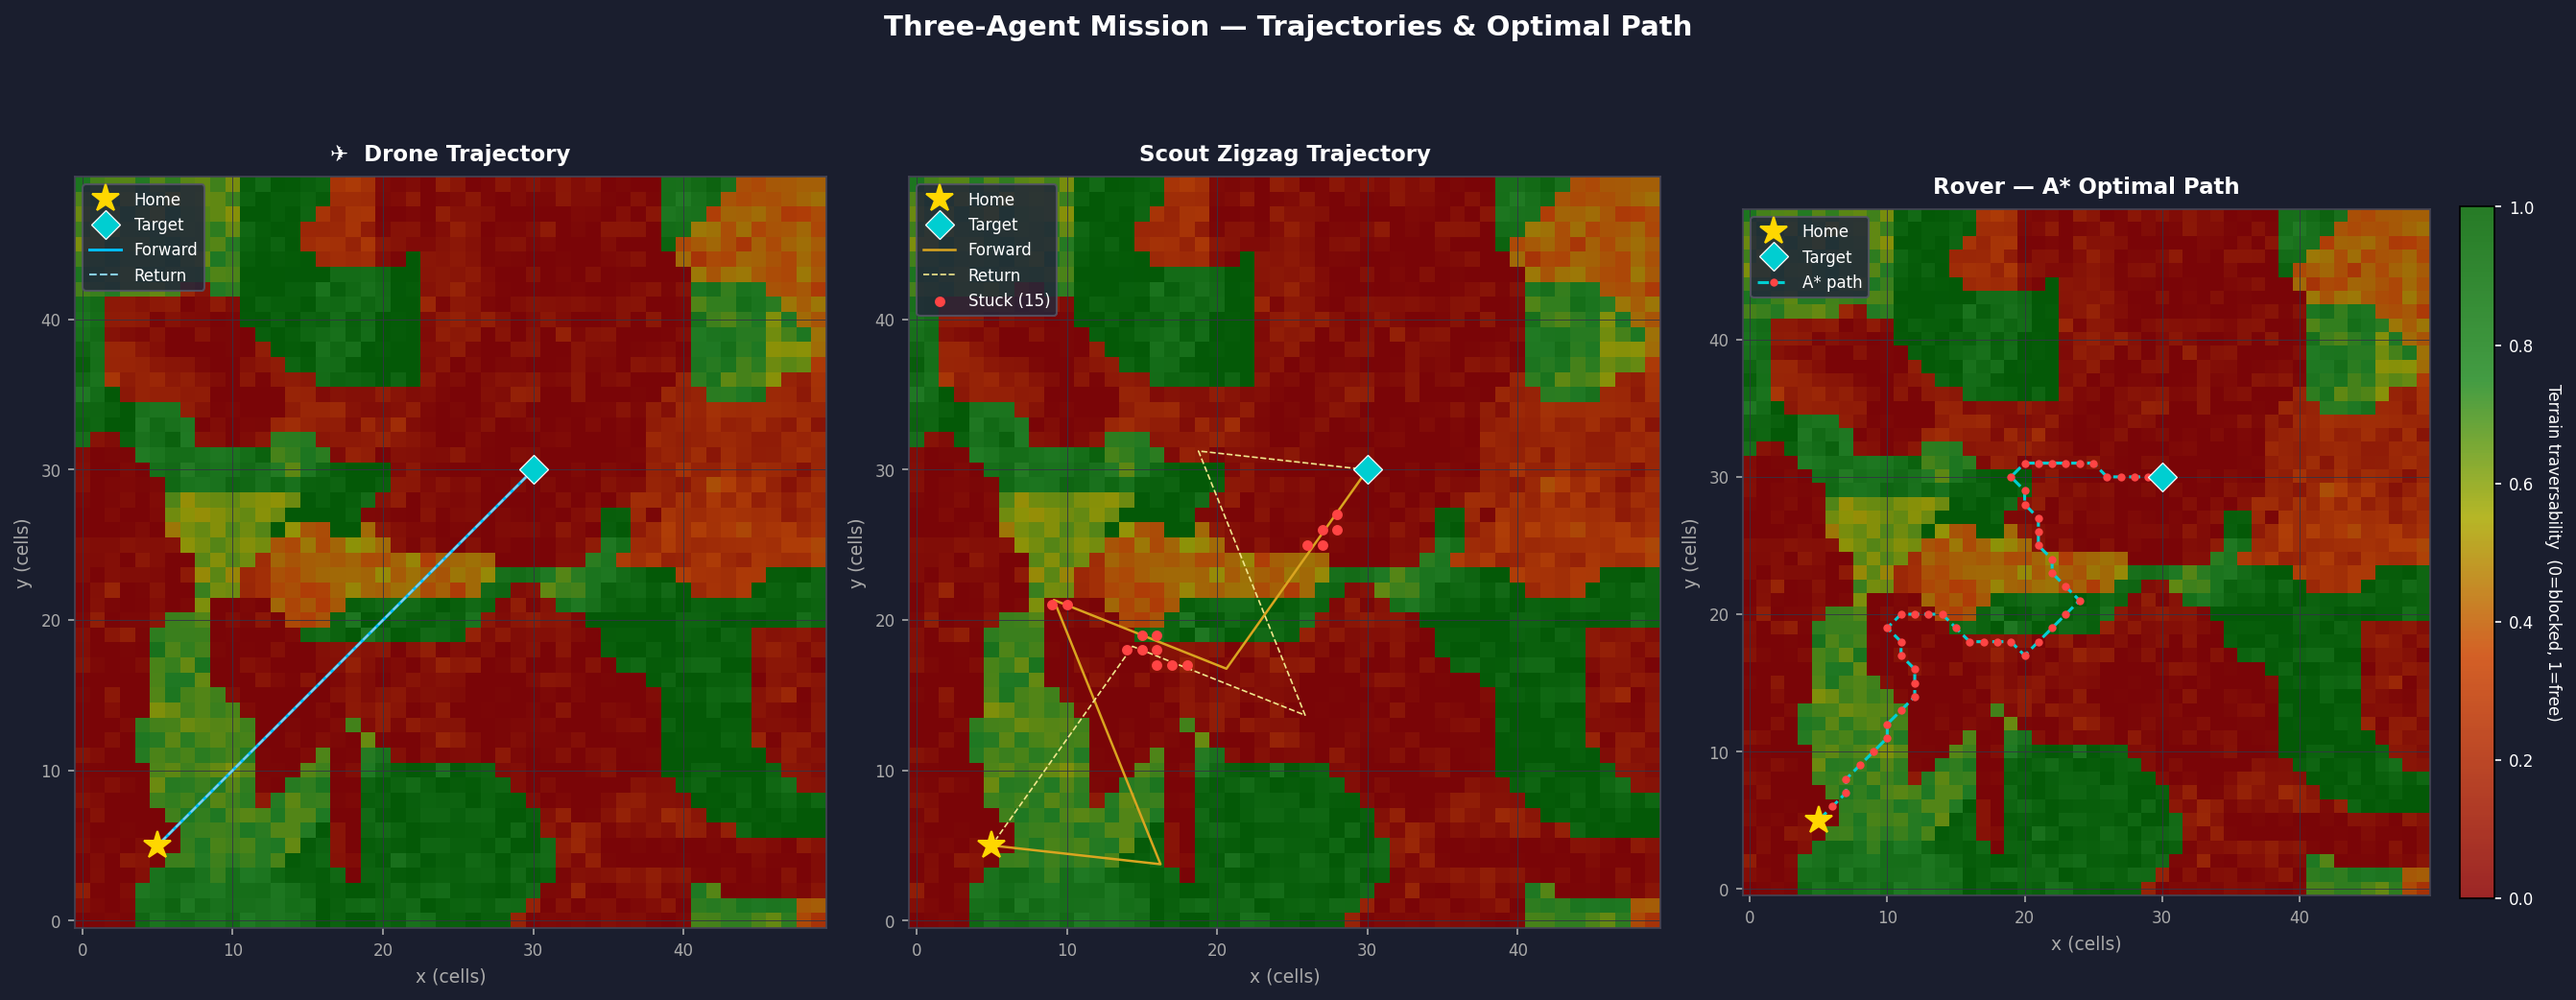
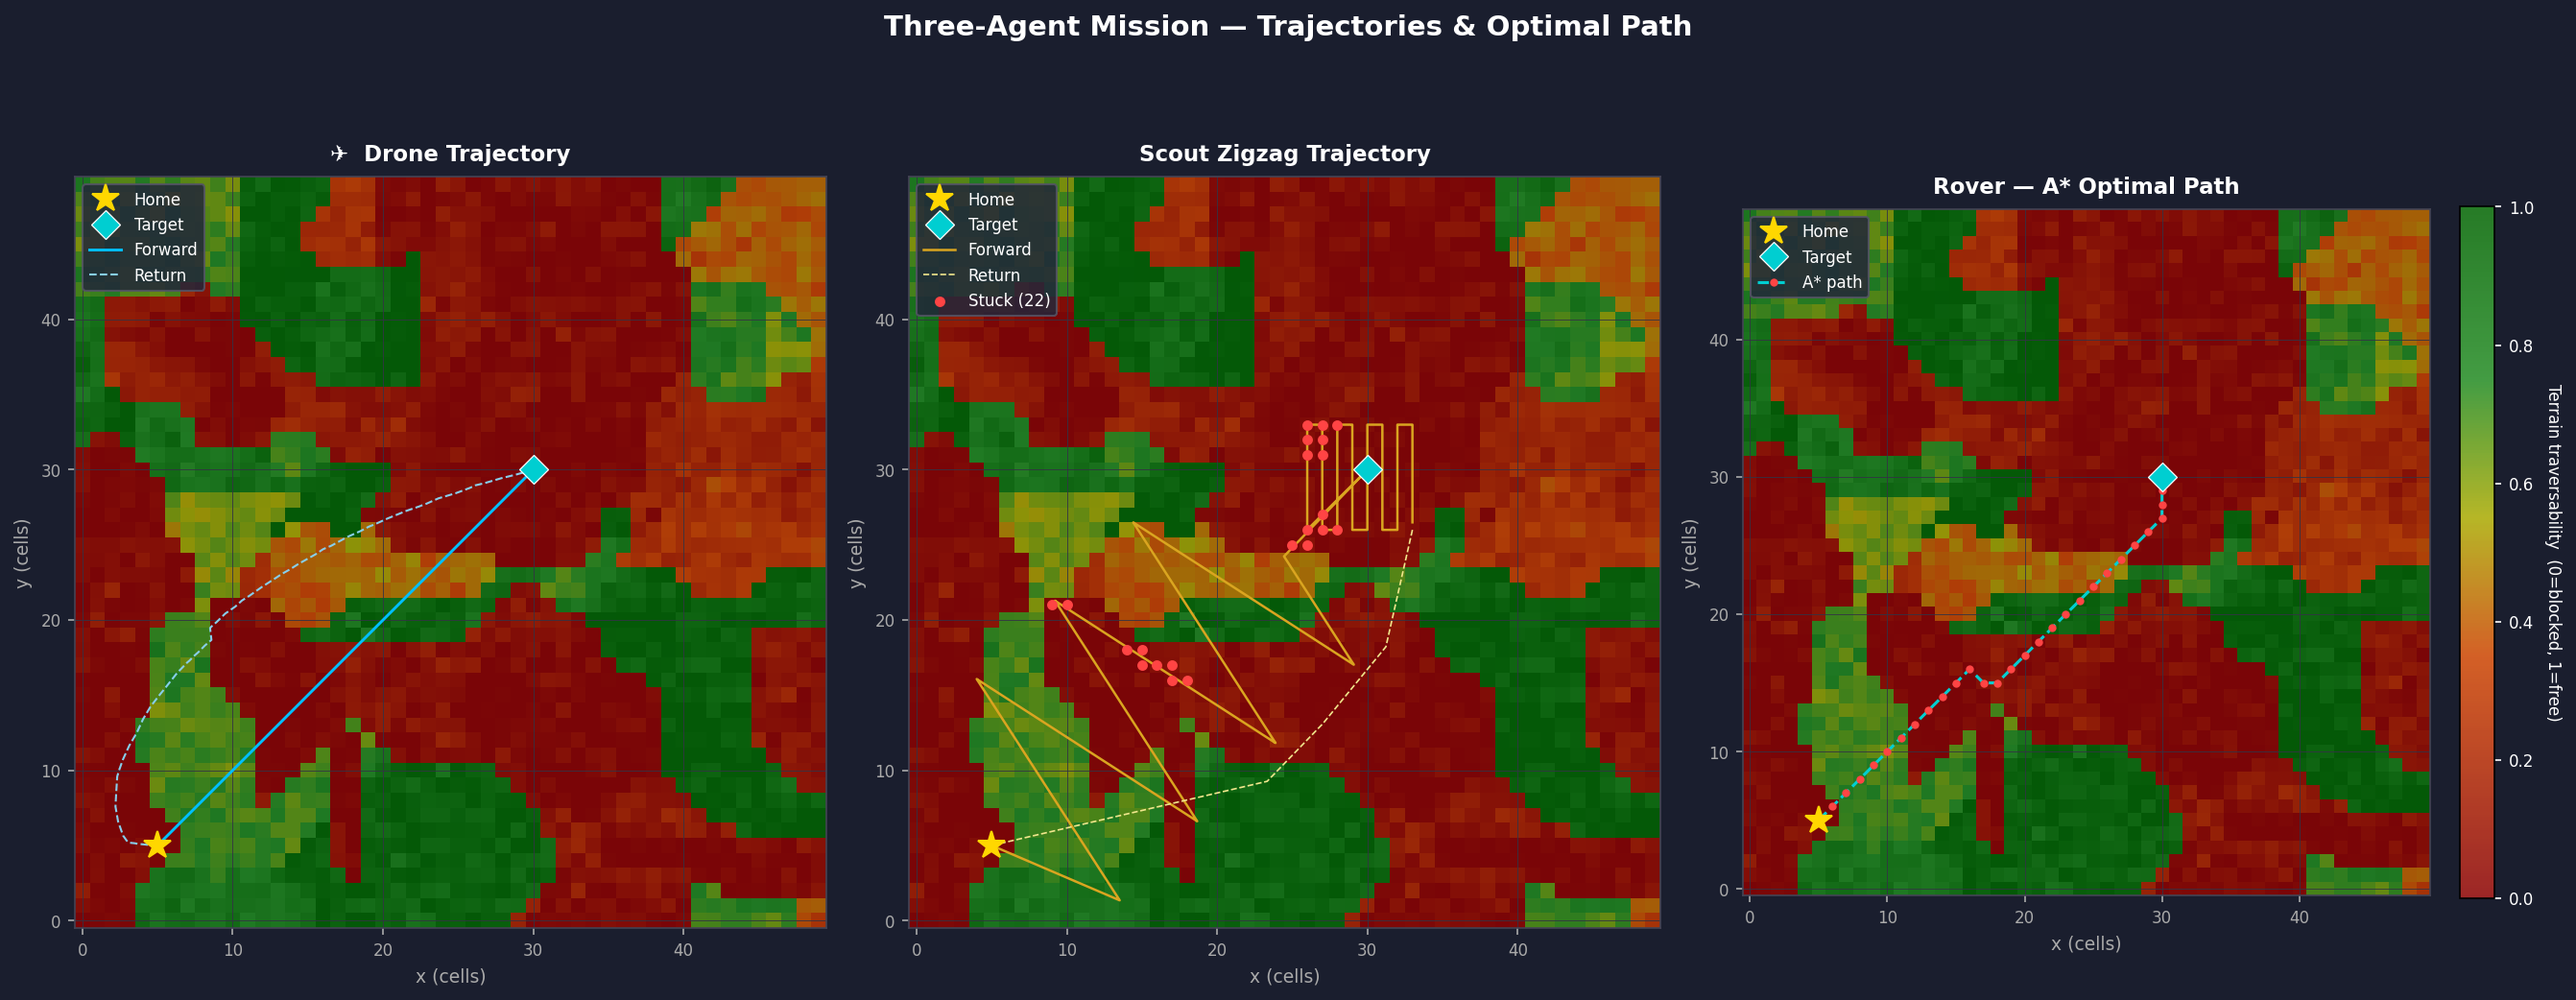
working governor

diff --git a/governor.py b/governor.py
@@ -81,10 +81,10 @@ def _axial_projection(point, origin, axis):
 
 # ─── Phase Runner ─────────────────────────────────────────────────────────────
 
-def _run_phase(name, drone, scout, goal, origin, terrain_map, prefer_unexplored=False):
+def _run_phase(name, drone, scout, goal, origin, terrain_map, prefer_unexplored=False, zig_width=ZIG_WIDTH, zig_lookahead=ZIG_LOOKAHEAD):
     axis, perp = _axis_perp(origin, goal)
     goal_proj = _axial_projection(goal, origin, axis)   # Total axial distance to goal
-    FINAL_APPROACH_DIST = ZIG_LOOKAHEAD * 2             # Scout switches to direct nav inside this
+    FINAL_APPROACH_DIST = zig_lookahead * 2             # Scout switches to direct nav inside this
     print(f"\n{'='*60}\n  {name}\n{'='*60}")
 
     drone_done = scout_done = False
@@ -98,6 +98,22 @@ def _run_phase(name, drone, scout, goal, origin, terrain_map, prefer_unexplored=
         # ── Drone ─────────────────────────────────────────────────────
         if not drone_done:
             tx, ty = float(goal[0]), float(goal[1])
+            if prefer_unexplored:
+                d_ang = math.atan2(goal[1] - drone.y, goal[0] - drone.x)
+                best_unobs = None
+                best_dist = float('inf')
+                for d_dist in range(4, 15, 2):
+                    for ang_off in [-0.6, 0.0, 0.6]:
+                        cx = int(drone.x + d_dist * math.cos(d_ang + ang_off))
+                        cy = int(drone.y + d_dist * math.sin(d_ang + ang_off))
+                        if 0 <= cx < 50 and 0 <= cy < 50:
+                            if (cx, cy) not in terrain_map.grid or not terrain_map.grid[(cx, cy)].is_observed:
+                                if d_dist < best_dist:
+                                    best_dist = d_dist
+                                    best_unobs = (cx, cy)
+                if best_unobs:
+                    tx, ty = float(best_unobs[0]), float(best_unobs[1])
+
             drone.step_towards(tx, ty, DT)
 
             # Ingestione Osservazioni Drone
@@ -121,12 +137,31 @@ def _run_phase(name, drone, scout, goal, origin, terrain_map, prefer_unexplored=
                 scout_wp = (float(goal[0]), float(goal[1]))
             else:
                 # Normal zigzag waypoint
-                base_proj = min(scout_proj + ZIG_LOOKAHEAD, goal_proj)
+                base_proj = min(scout_proj + zig_lookahead, goal_proj)
                 if scout_wp is None or math.hypot(scout.x - scout_wp[0], scout.y - scout_wp[1]) < 1.5:
-                    scout_side = -scout_side
+                    if prefer_unexplored:
+                        left_unobs = 0
+                        right_unobs = 0
+                        for d_dist in range(2, int(zig_lookahead * 1.5) + 1):
+                            for w in range(1, int(zig_width)):
+                                lx, ly = int(scout.x + d_dist*axis[0] - w*perp[0]), int(scout.y + d_dist*axis[1] - w*perp[1])
+                                rx, ry = int(scout.x + d_dist*axis[0] + w*perp[0]), int(scout.y + d_dist*axis[1] + w*perp[1])
+                                if 0 <= lx < 50 and 0 <= ly < 50 and ((lx, ly) not in terrain_map.grid or not terrain_map.grid[(lx, ly)].is_observed):
+                                    left_unobs += 1
+                                if 0 <= rx < 50 and 0 <= ry < 50 and ((rx, ry) not in terrain_map.grid or not terrain_map.grid[(rx, ry)].is_observed):
+                                    right_unobs += 1
+                        if left_unobs > right_unobs:
+                            scout_side = -1
+                        elif right_unobs > left_unobs:
+                            scout_side = 1
+                        else:
+                            scout_side = -scout_side
+                    else:
+                        scout_side = -scout_side
+                    
                     scout_wp = (
-                        origin[0] + base_proj * axis[0] + scout_side * ZIG_WIDTH * perp[0],
-                        origin[1] + base_proj * axis[1] + scout_side * ZIG_WIDTH * perp[1],
+                        origin[0] + base_proj * axis[0] + scout_side * zig_width * perp[0],
+                        origin[1] + base_proj * axis[1] + scout_side * zig_width * perp[1],
                     )
 
             pre_x, pre_y = scout.x, scout.y
@@ -163,6 +198,68 @@ def _run_phase(name, drone, scout, goal, origin, terrain_map, prefer_unexplored=
 
     return step, drone_traj, scout_traj, step * DT  # also return simulated seconds
 
+
+def _run_target_sweep(name, scout, target, terrain_map, size=8):
+    print(f"\n{'='*60}\n  {name}\n{'='*60}")
+    
+    # Generate lawnmower pattern around target
+    min_x = max(0, int(target[0]) - size // 2)
+    max_x = min(49, int(target[0]) + size // 2 - 1)
+    min_y = max(0, int(target[1]) - size // 2)
+    max_y = min(49, int(target[1]) + size // 2 - 1)
+
+    waypoints = []
+    go_up = True
+    for x in range(min_x, max_x + 1):
+        y_range = range(min_y, max_y + 1) if go_up else range(max_y, min_y - 1, -1)
+        for y in y_range:
+            waypoints.append((float(x), float(y)))
+        go_up = not go_up
+
+    scout_traj = []
+    step = 0
+    scout_wp_idx = 0
+    
+    # We want to visit all waypoints
+    while scout_wp_idx < len(waypoints) and step < MAX_STEPS:
+        scout_traj.append((scout.x, scout.y))
+        wp = waypoints[scout_wp_idx]
+        
+        # Check if reached waypoint
+        if math.hypot(scout.x - wp[0], scout.y - wp[1]) < 0.5:
+            scout.x, scout.y = float(wp[0]), float(wp[1])
+            scout_wp_idx += 1
+            if scout_wp_idx >= len(waypoints):
+                break
+            wp = waypoints[scout_wp_idx]
+
+        pre_x, pre_y = scout.x, scout.y
+        orientation = math.atan2(wp[1] - scout.y, wp[0] - scout.x)
+        
+        _, was_stuck, _ = scout.step_towards(wp[0], wp[1], DT)
+        
+        actual_dist = math.hypot(scout.x - pre_x, scout.y - pre_y)
+        actual_vel = actual_dist / DT
+        
+        obs = scout.perceive()
+        obs_dict = {(int(o.x), int(o.y)): o.features for o in obs}
+        movement_dict = {
+            (int(round(scout.x)), int(round(scout.y))): {
+                "is_stuck": was_stuck,
+                "heading": orientation,
+                "command_velocity": scout.speed,
+                "actual_velocity": actual_vel,
+            }
+        }
+        terrain_map.update_map(obs_dict, movement_dict)
+
+        step += 1
+        if step % 2000 == 0:
+            print(f"  Sweep Step {step}: Mappa copre {len(terrain_map.grid)} celle.")
+
+    return step, scout_traj, step * DT
+
+
 # ─── Governor Main ────────────────────────────────────────────────────────────
 
 def governor():
@@ -177,7 +274,12 @@ def governor():
 
     # Fase 1: Esplorazione
     steps1, drone_fwd, scout_fwd, sim1 = _run_phase(
-        "PHASE 1: FORWARD", drone, scout, TARGET, START, terrain_map)
+        "PHASE 1: FORWARD", drone, scout, TARGET, START, terrain_map, prefer_unexplored=False, zig_width=ZIG_WIDTH, zig_lookahead=4.0)
+        
+    # Fase 1.5: Target Sweep
+    steps15, scout_sweep, sim15 = _run_target_sweep("PHASE 1.5: 8x8 TARGET SWEEP", scout, TARGET, terrain_map, size=8)
+    scout_fwd.extend(scout_sweep) # append sweep to fwd traj for plotting
+
     steps2, drone_ret, scout_ret, sim2 = _run_phase(
         "PHASE 2: RETURN",  drone, scout, START,  TARGET, terrain_map, True)
 
@@ -214,14 +316,15 @@ def governor():
         print(f"  ✅ Percorso A* trovato: {len(path)} nodi.")
     except Exception as e:
         print(f"  ❌ Errore Pathfinding: {e}")
-        return
+        path = []
 
     # Fase 4: Traversal Rover
     print("\n--- [PHASE 4] ROVER TRAVERSAL ---")
     rover_stuck = False
-    for wp in path[1:]:
-        if rover_stuck:
-            break
+    if path:
+        for wp in path[1:]:
+            if rover_stuck:
+                break
         wp_steps = 0
         while math.hypot(rover.x - wp[0], rover.y - wp[1]) >= 0.15 and wp_steps < 5000:
             _, r_stuck = rover.step_towards(wp[0], wp[1], DT)
@@ -236,26 +339,29 @@ def governor():
 
     # ── Final position report ────────────────────────────────────────────────
     elapsed = time.perf_counter() - wall_start
-    sim_total = sim1 + sim2 + len(path) * 5000 * DT  # rough rover sim-time upper bound
+    sim_total = sim1 + sim15 + sim2 + len(path) * 5000 * DT  # rough rover sim-time upper bound
     rover_sim_time = rover.total_time_spent
 
     print(f"\n{'='*60}")
     print(f"  MISSION LOG")
     print(f"  {'─'*54}")
     print(f"  Phase 1 — steps: {steps1:>6}   sim time: {sim1:>8.1f} s")
+    print(f"  Phase 1.5 — steps: {steps15:>4}   sim time: {sim15:>8.1f} s")
     print(f"  Phase 2 — steps: {steps2:>6}   sim time: {sim2:>8.1f} s")
     print(f"  Rover traversal sim time:         {rover_sim_time:>8.1f} s")
-    print(f"  Total simulated time:             {sim1+sim2+rover_sim_time:>8.1f} s")
+    print(f"  Total simulated time:             {sim1+sim15+sim2+rover_sim_time:>8.1f} s")
     print(f"  Wall-clock time:                  {elapsed:>8.1f} s")
     print(f"  {'─'*54}")
     print(f"  Posizioni finali:")
     print(f"    Drone  → ({drone.x:.4f}, {drone.y:.4f})")
     print(f"    Scout  → ({scout.x:.4f}, {scout.y:.4f})")
     print(f"    Rover  → ({rover.x:.4f}, {rover.y:.4f})")
-    if not rover_stuck:
+    if path and not rover_stuck:
         print(f"  ✅ Tutti e tre gli agenti hanno raggiunto il centro esatto di {TARGET}")
-    else:
+    elif path:
         print(f"  ⚠  Rover bloccato — non ha raggiunto {TARGET}")
+    else:
+        print(f"  ⚠  Rover non ha percorso — Pathfinding fallito")
     print(f"  Celle esplorate totali: {len(terrain_map.grid)}")
     print(f"  Stuck events scout: {len(scout.stuck_cells)}")
     print(f"  Nodi A* path: {len(path)}")

diff --git a/TerrainGraph.py b/TerrainGraph.py
@@ -201,7 +201,7 @@ class TerrainGraph:
         are visible immediately without calling get_graph again.
         """
         if agent == "rover":
-            return self._visited_graph
+            return self._observed_graph
 
         if agent == "scout":
             return _PenalizedView(
